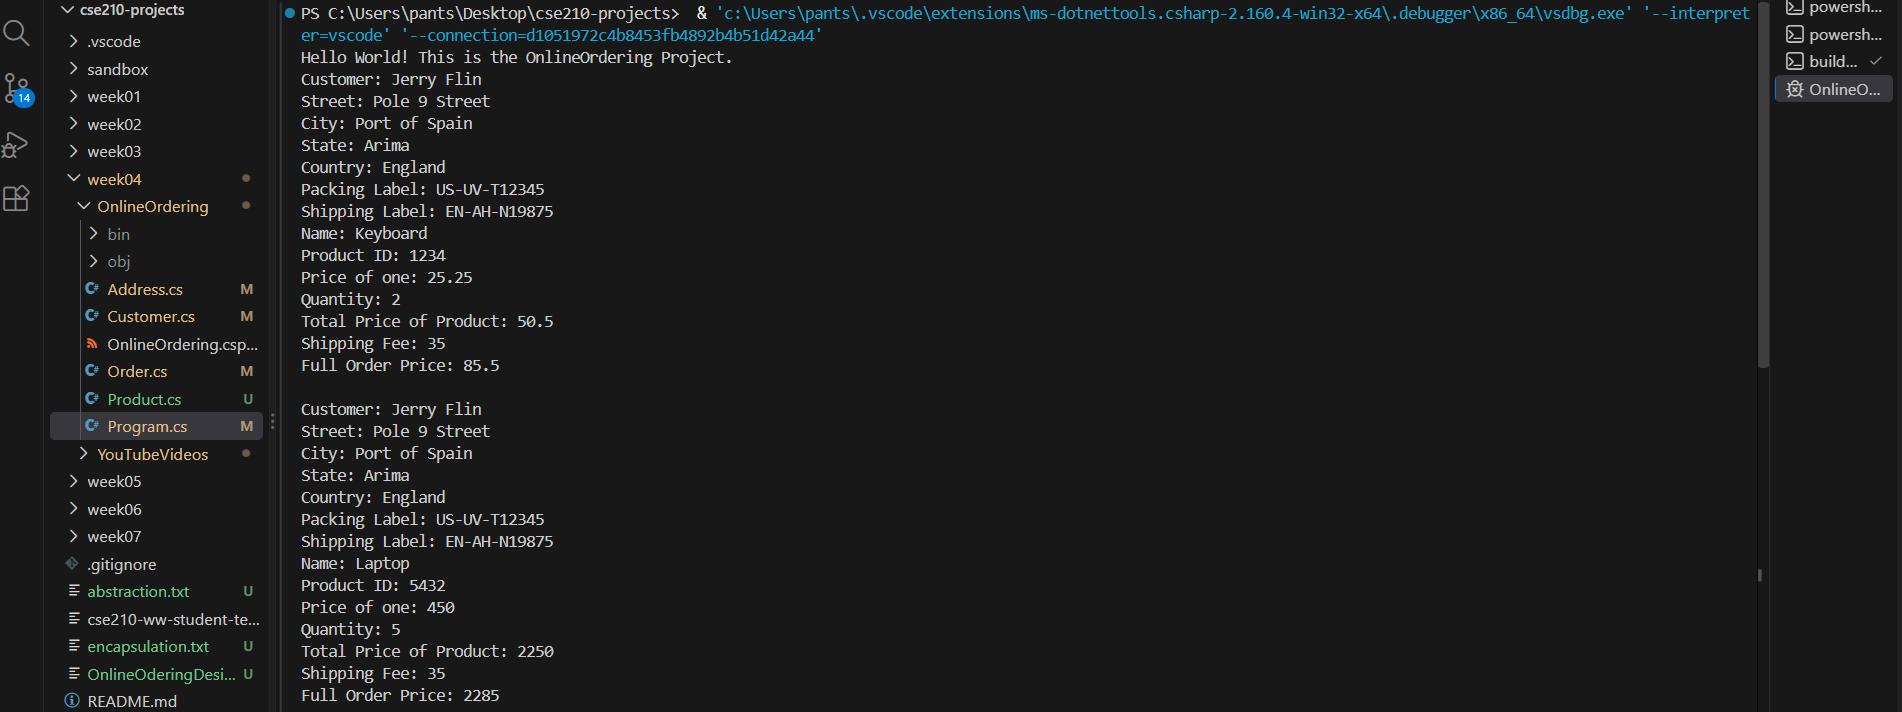
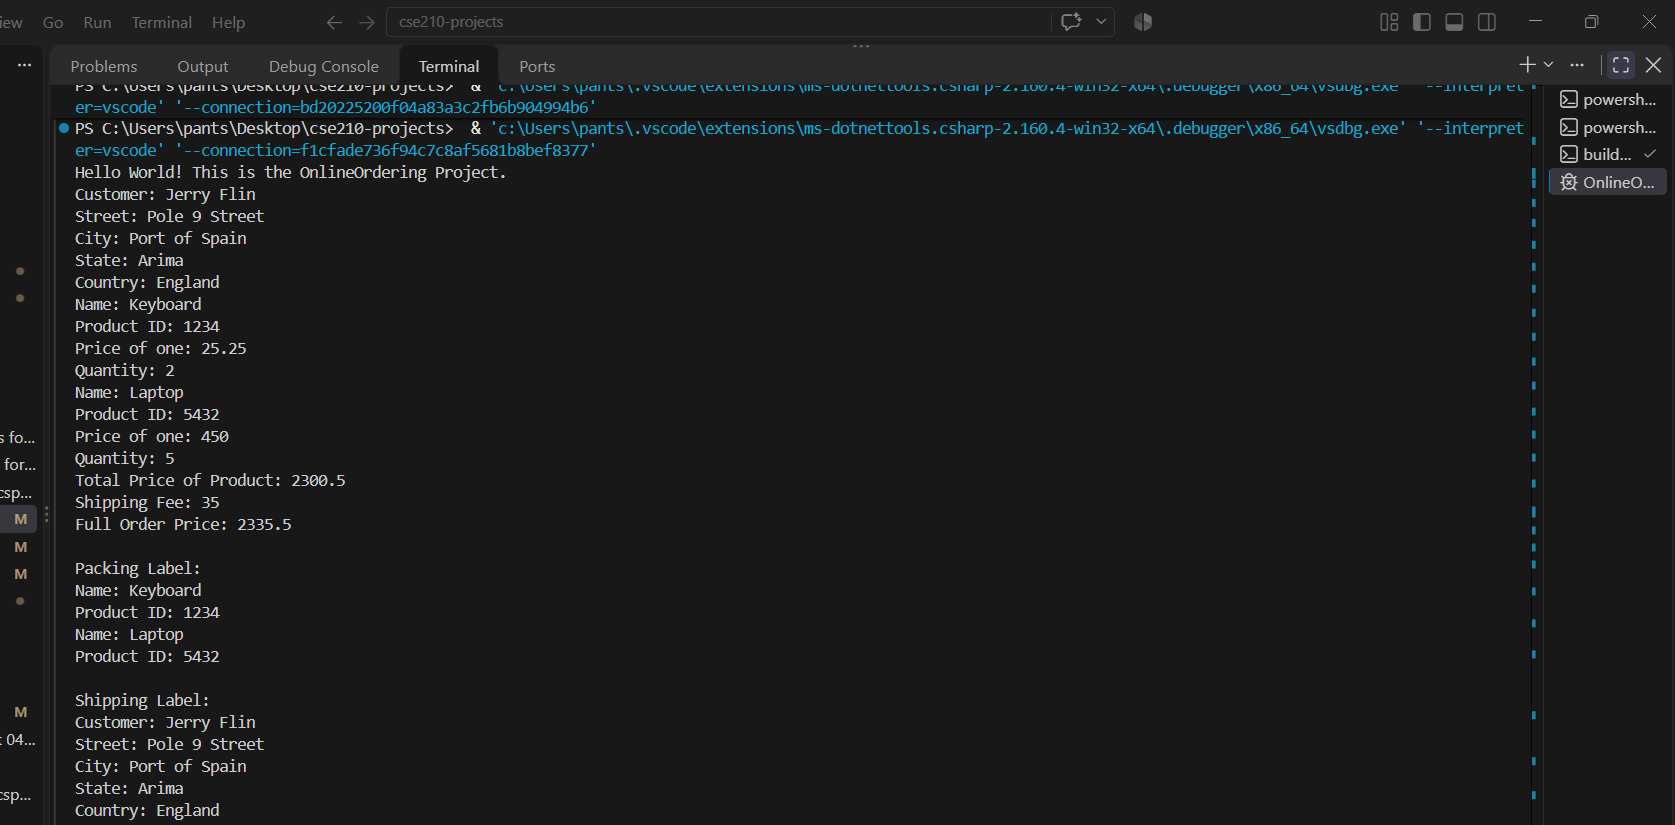
Resolve the Online ordering program

Changed region(s): [[0.0, 0.0, 1.0, 1.0]]

diff --git a/week04/OnlineOrdering/Order.cs b/week04/OnlineOrdering/Order.cs
@@ -1,59 +1,76 @@
 public class Order
 {
-    private List<Product> _productTrial = new List<Product>();
-    private List<Customer> _customerTrial = new List<Customer>();
+    private List<Product> _productList = new List<Product>();
+    private List<Customer> _customerList = new List<Customer>();
     
     // Calling the other classes inside the order class
     private Customer _customer;
     // private AddressTrial _address;
-    private Product _product;
+    // private Product _product;
 
     // regular member variables
     private string _packingLabel;
     private string _shippingLabel;
 
-    public Order(Customer customer, Product product, string packingLabel, string shippingLabel)
+    public Order(Customer customer, List<Product> productList, string packingLabel, string shippingLabel)
     {
         _customer = customer;
-        _product = product;
+        _productList = productList;
         _packingLabel = packingLabel;
         _shippingLabel = shippingLabel;
     }
 
-    // public Order(CustomerTrial customer, ProductTrial product)
-    // {
-    //     _customer = customer;
-    //     _product = product;
-    // }
+    public Order(Customer customer, List<Product> productList)
+    {
+        _customer = customer;
+        _productList = productList;
+    }
 
-    // public Order(string packingLabel, string shippingLabel)
+    public Order(string packingLabel, string shippingLabel)
+    {
+        _packingLabel = packingLabel;
+        _shippingLabel = shippingLabel;
+    }
+
+    // public void AddProduct(Product productList)
     // {
-    //     _packingLabel = packingLabel;
-    //     _shippingLabel = shippingLabel;
+    //     _productList.Add(productList);
     // }
 
     public double GetTotalCost()
     {
-       return _product.GetTotalCost();
+       double total = 0;
+       foreach(Product product in _productList)
+        {
+            total += product.GetTotalCost();
+        }
+         return total;
     }
 
     public string PackingLabel()
     {
-        return _packingLabel;
+        string label = "";
+        foreach(Product product in _productList)
+        {
+            label += product.DisplayProductLimited() + "\n";
+        }
+        return $"Packing Label: \n{label}";
     }
 
     public string ShippingLabel()
     {
-        return _shippingLabel;
+        string label2 = "";
+        label2 += _customer.DisplayCustomer() + "\n";
+        return $"Shipping Label: \n{label2}";
     }
 
     public string DisplayLabels()
     {
-        return $"Packing Label: {_packingLabel} \nShipping Label: {_shippingLabel}";
+        return $"{_packingLabel} \n{_shippingLabel}";
     }
 
     public double GetShippingFee()
-    {
+    { 
         if(_customer.Country())
         {
             return 5;
@@ -71,10 +88,15 @@ public class Order
 
     public void DisplayAll()
     {
+       
         Console.WriteLine($"{_customer.DisplayCustomer()}");
-        Console.WriteLine(DisplayLabels());
-        Console.WriteLine($"{_product.DisplayProduct()}");
-        Console.WriteLine($"Total Price of Product: {_product.GetTotalCost()}");
+        // Console.WriteLine(DisplayLabels());
+
+        foreach(Product products in _productList)
+        {
+        Console.WriteLine($"{products.DisplayProduct()}");
+        }
+        Console.WriteLine($"Total Price of Product: {GetTotalCost()}");
         Console.WriteLine($"Shipping Fee: {GetShippingFee()}");
         Console.WriteLine($"Full Order Price: {TotalOrderAmount()}");
     }

diff --git a/week04/OnlineOrdering/Program.cs b/week04/OnlineOrdering/Program.cs
@@ -23,26 +23,33 @@ class Program
         Customer customer = new Customer("Jerry Flin", address);
         // Console.WriteLine(customer.DisplayCustomer());
 
-        Order orderList = new Order(customer, product, "US-UV-T12345", "EN-AH-N19875");
-        Order orderList2 = new Order(customer, product2, "US-UV-T12345", "EN-AH-N19875");
+        List<Product> productList = new List<Product>();
+        productList.Add(product);
+        productList.Add(product2);
+    
+        // Order orderList = new Order(customer, productList, "US-UV-T12345", "EN-AH-N19875");
+        Order orderList = new Order(customer, productList);
         orderList.DisplayAll();
         Console.WriteLine();
-        orderList2.DisplayAll();
-        Console.WriteLine();
+        Console.WriteLine(orderList.PackingLabel());
+        Console.WriteLine(orderList.ShippingLabel());
 
         // Customer 2
         Product product3 = new Product("Giant Water Filter", "9843", 1200.25, 8);
         Product product4 = new Product("Ergonomic Office Chairs", "2512", 800.00, 20);
 
-        Address address1 = new Address("18th Street", "Seattle", "Washingthon", "USA");
+        Address address2 = new Address("18th Street", "Seattle", "Washingthon", "USA");
 
-        Customer customer1 = new Customer("James Smith", address1);
+        Customer customer2 = new Customer("James Smith", address2);
 
-        Order orderList3 = new Order(customer1, product3, "US-PK-G23976", "US-NB-A54782");
-        Order orderList4 = new Order(customer1, product4, "US-PK-G23976", "US-NB-A54782");
-        orderList3.DisplayAll();
+        List<Product> productList2 = new List<Product>();
+        productList2.Add(product3);
+        productList2.Add(product4);
+
+        Order orderList2 = new Order(customer2, productList2);
+        orderList2.DisplayAll();
         Console.WriteLine();
-        orderList4.DisplayAll();
-
+        Console.WriteLine(orderList2.PackingLabel());
+        Console.WriteLine(orderList2.ShippingLabel());
     }
 }

diff --git a/week04/OnlineOrdering/Products.cs b/week04/OnlineOrdering/Products.cs
@@ -20,6 +20,11 @@ public class Product
         return _price * _quantity;
     }
 
+     public string DisplayProductLimited()
+    {
+         return $"Name: {_name} \nProduct ID: {_productId}";
+    }
+
     public string DisplayProduct()
     {
         return $"Name: {_name} \nProduct ID: {_productId} \nPrice of one: {_price} \nQuantity: {_quantity}";
